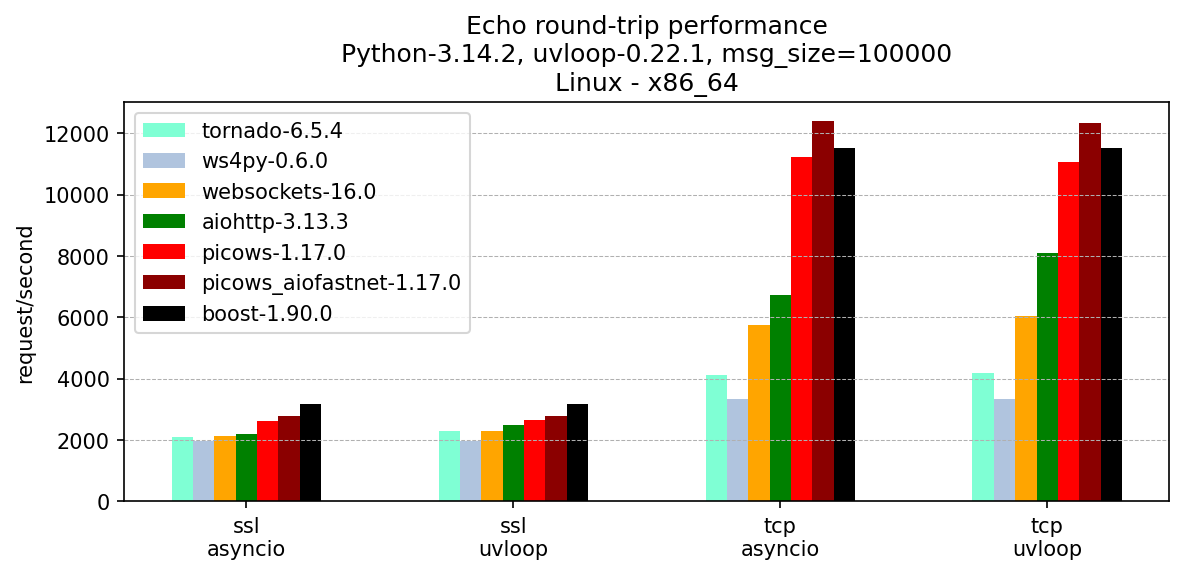
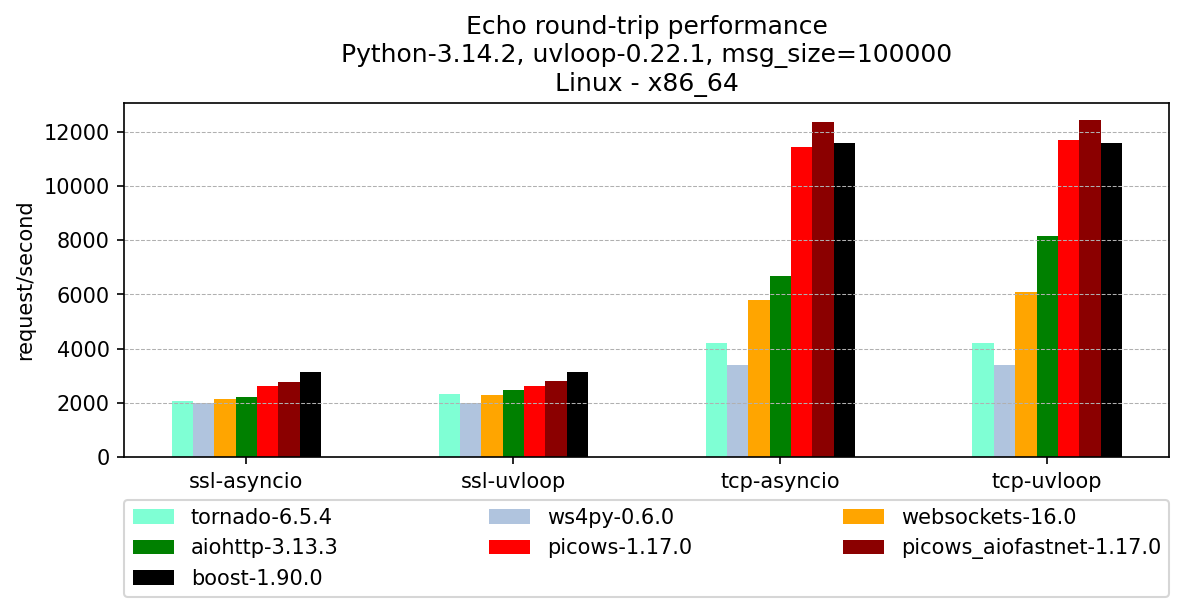
Update results

diff --git a/wsbench/benchmark.py b/wsbench/benchmark.py
@@ -44,19 +44,20 @@ def print_result_and_plot(msg_size, results: pd.DataFrame, save_plot):
 
     try:
         import matplotlib.pyplot as plt
+        from matplotlib.font_manager import FontProperties
 
         clients = results.index
         client_names = results.index + "-" + results.version
         data = results.drop(columns=["version"])
-        tests = [n.replace('-', '\n') for n in data.columns]
+        tests = [n for n in data.columns]
 
         x = np.arange(len(tests))
         width = 0.08
 
-        plt.figure(figsize = (8, 4))
+        fig, ax = plt.subplots(figsize=(8, 4.8))
 
         for i, (client, name) in enumerate(zip(clients, client_names)):
-            plt.bar(
+            ax.bar(
                 x + i * width,
                 data.loc[client],
                 width,
@@ -64,8 +65,8 @@ def print_result_and_plot(msg_size, results: pd.DataFrame, save_plot):
                 color=colors_map.get(client)
             )
 
-        plt.xticks(x + width * (len(clients) - 1) / 2, tests)
-        plt.ylabel("request/second")
+        ax.set_xticks(x + width * (len(clients) - 1) / 2, tests)
+        ax.set_ylabel("request/second")
         headers = [
             'Echo round-trip performance',            
         ]        
@@ -74,18 +75,62 @@ def print_result_and_plot(msg_size, results: pd.DataFrame, save_plot):
         else:
             headers.append(f'Python-{platform.python_version()}, winloop-{winloop.__version__}, msg_size={msg_size}')
         headers.append(f"{platform.system()} - {platform.processor()}")
-        plt.title("\n".join(headers))
-        plt.legend()
-        plt.tight_layout()
-        plt.grid(axis='y', linestyle = '--', linewidth = 0.5)
+        ax.set_title("\n".join(headers))
+        handles, labels = ax.get_legend_handles_labels()
+        fig.canvas.draw()
+        renderer = fig.canvas.get_renderer()
+        axes_width_px = ax.get_window_extent(renderer=renderer).width
+        font_properties = FontProperties(size=plt.rcParams["legend.fontsize"])
+
+        text_widths = [
+            renderer.get_text_width_height_descent(label, font_properties, ismath=False)[0]
+            for label in labels
+        ]
+
+        legend_cols = 1
+        handle_width_px = 40
+        column_spacing_px = 24
+        for candidate_cols in range(len(labels), 0, -1):
+            candidate_rows = int(np.ceil(len(labels) / candidate_cols))
+            column_widths = []
+            for col in range(candidate_cols):
+                column_items = text_widths[col::candidate_cols]
+                if not column_items:
+                    continue
+                column_widths.append(max(column_items) + handle_width_px)
+
+            total_width = sum(column_widths) + max(len(column_widths) - 1, 0) * column_spacing_px
+            if total_width <= axes_width_px:
+                legend_cols = candidate_cols
+                break
+
+        legend_rows = int(np.ceil(len(handles) / legend_cols))
+        legend_order = []
+        for col in range(legend_cols):
+            for row in range(legend_rows):
+                idx = row * legend_cols + col
+                if idx < len(handles):
+                    legend_order.append(idx)
+        ax.legend(
+            [handles[idx] for idx in legend_order],
+            [labels[idx] for idx in legend_order],
+            loc="upper center",
+            bbox_to_anchor=(0.0, -0.22, 1.0, 0.1),
+            mode="expand",
+            ncol=legend_cols,
+            frameon=True,
+            borderaxespad=0.0,
+        )
+        fig.tight_layout(rect=(0, 0.08, 1, 1))
+        ax.grid(axis='y', linestyle='--', linewidth=0.5)
 
         if save_plot:
             png_path = Path(os.path.dirname(
                 __file__)) / '..' / 'results' / f'benchmark-{platform.system()}-{msg_size}.png'
             data_path = Path(os.path.dirname(
                 __file__)) / '..' / 'results' / f'benchmark-{platform.system()}-{msg_size}.csv'
-            plt.savefig(png_path, dpi=150, bbox_inches="tight")
-            plt.close()
+            fig.savefig(png_path, dpi=150, bbox_inches="tight")
+            plt.close(fig)
 
             results.to_csv(data_path)
         else:
